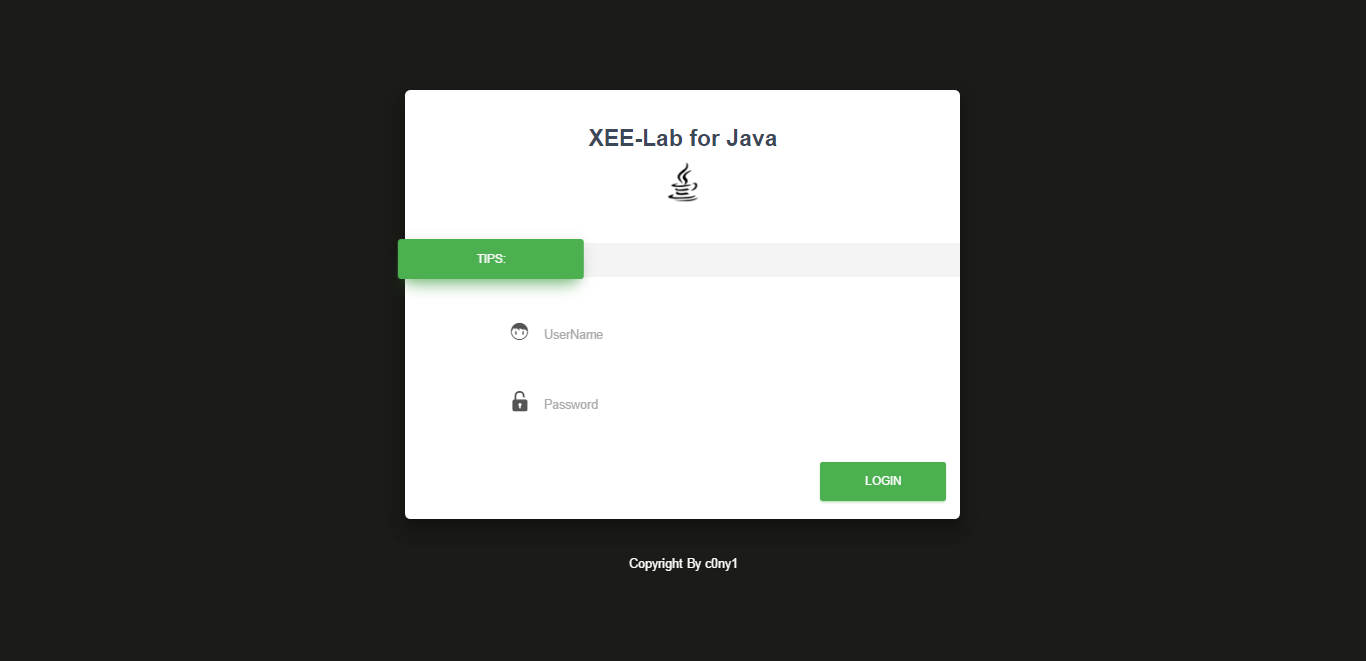
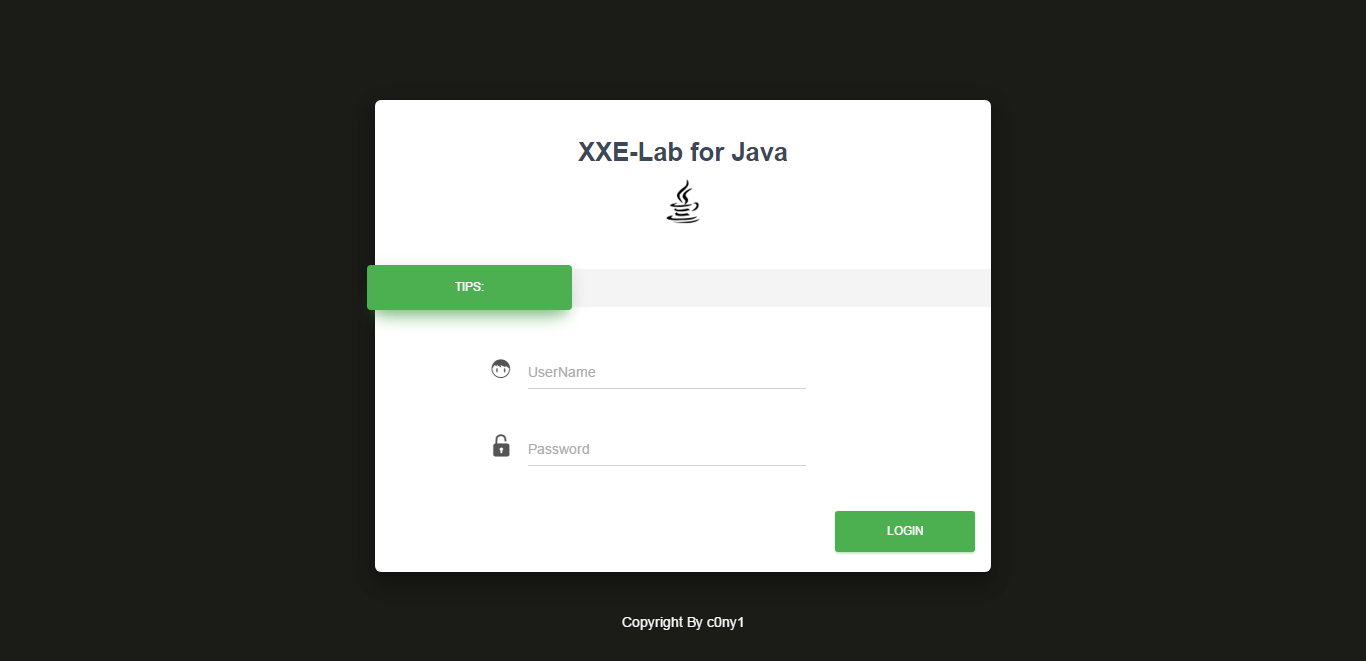
将XEE改正为XXE

diff --git a/python_xxe/templates/index.html b/python_xxe/templates/index.html
@@ -28,7 +28,7 @@
 		                    <form>
 		                    	<div class="wizard-header">
 		                        	<h3 class="wizard-title">
-		                        	   <a href="http://github.com/c0ny1/xxe-lab">XEE-Lab for Python</a>
+		                        	   <a href="http://github.com/c0ny1/xxe-lab">XXE-Lab for Python</a>
 		                        	</h3>
 									<img src="static/img/python_logo.png">
 		                    	</div>

diff --git a/java_xxe/WebContent/index.html b/java_xxe/WebContent/index.html
@@ -28,7 +28,7 @@
 		                    <form>
 		                    	<div class="wizard-header">
 		                        	<h3 class="wizard-title">
-		                        	   <a href="http://github.com/c0ny1/xxe-lab">XEE-Lab for Java</a>
+		                        	   <a href="http://github.com/c0ny1/xxe-lab">XXE-Lab for Java</a>
 		                        	</h3>
 									<img src="img/java_logo.png">
 		                    	</div>

diff --git a/php_xxe/index.html b/php_xxe/index.html
@@ -28,7 +28,7 @@
 		                    <form>
 		                    	<div class="wizard-header">
 		                        	<h3 class="wizard-title">
-		                        	   <a href="http://github.com/c0ny1/xxe-lab">XEE-Lab for PHP</a>
+		                        	   <a href="http://github.com/c0ny1/xxe-lab">XXE-Lab for PHP</a>
 		                        	</h3>
 									<img src="img/php_logo.png">
 		                    	</div>

diff --git a/README.md b/README.md
@@ -2,23 +2,23 @@
 
 xxe-lab是一个使用php,java,python,C#四种当下最常用语言的网站编写语言来编写的一个存在xxe漏洞的web demo。
 
-由于xxe的payload在不同的语言内置的xml解析器中解析效果不一样，为了研究它们的不同。我分别使用当下最常用的四种网站编写语言写了存在xxe漏洞的web dome,为了以后得测试方便，就将这些demoe整合为xxe-lab。代码力求简洁简单，尽量只使用原生库，同时在注释部分包含了修复漏洞的代码。ruby版本有时间在加入！
+由于xxe的payload在不同的语言内置的xml解析器中解析效果不一样，为了研究它们的不同。我分别使用当下最常用的四种网站编写语言写了存在xxe漏洞的web dome,为了以后得测试方便，就将这些demoe整合为xxe-lab。代码力求简洁简单，尽量只使用原生库，同时在注释部分包含了修复漏洞的代码。ruby版本有时间再加入！
 
 ## 安装
-##### 1.php_xxe
+#### 1.php_xxe
 
 直接放在php web页面下即可运行。
 
-##### 2.java_xxe
+#### 2.java_xxe
 
 java_xxe是serlvet项目，直接导入eclipse当中即可部署运行。
 
-##### 3.python_xxe: 
+#### 3.python_xxe: 
 
 * 安装好Flask模块
 * python xxe.py
 
-##### 4.Csharp_xxe 
+#### 4.Csharp_xxe 
 直接导入VS中运行
 ## 主界面
 
